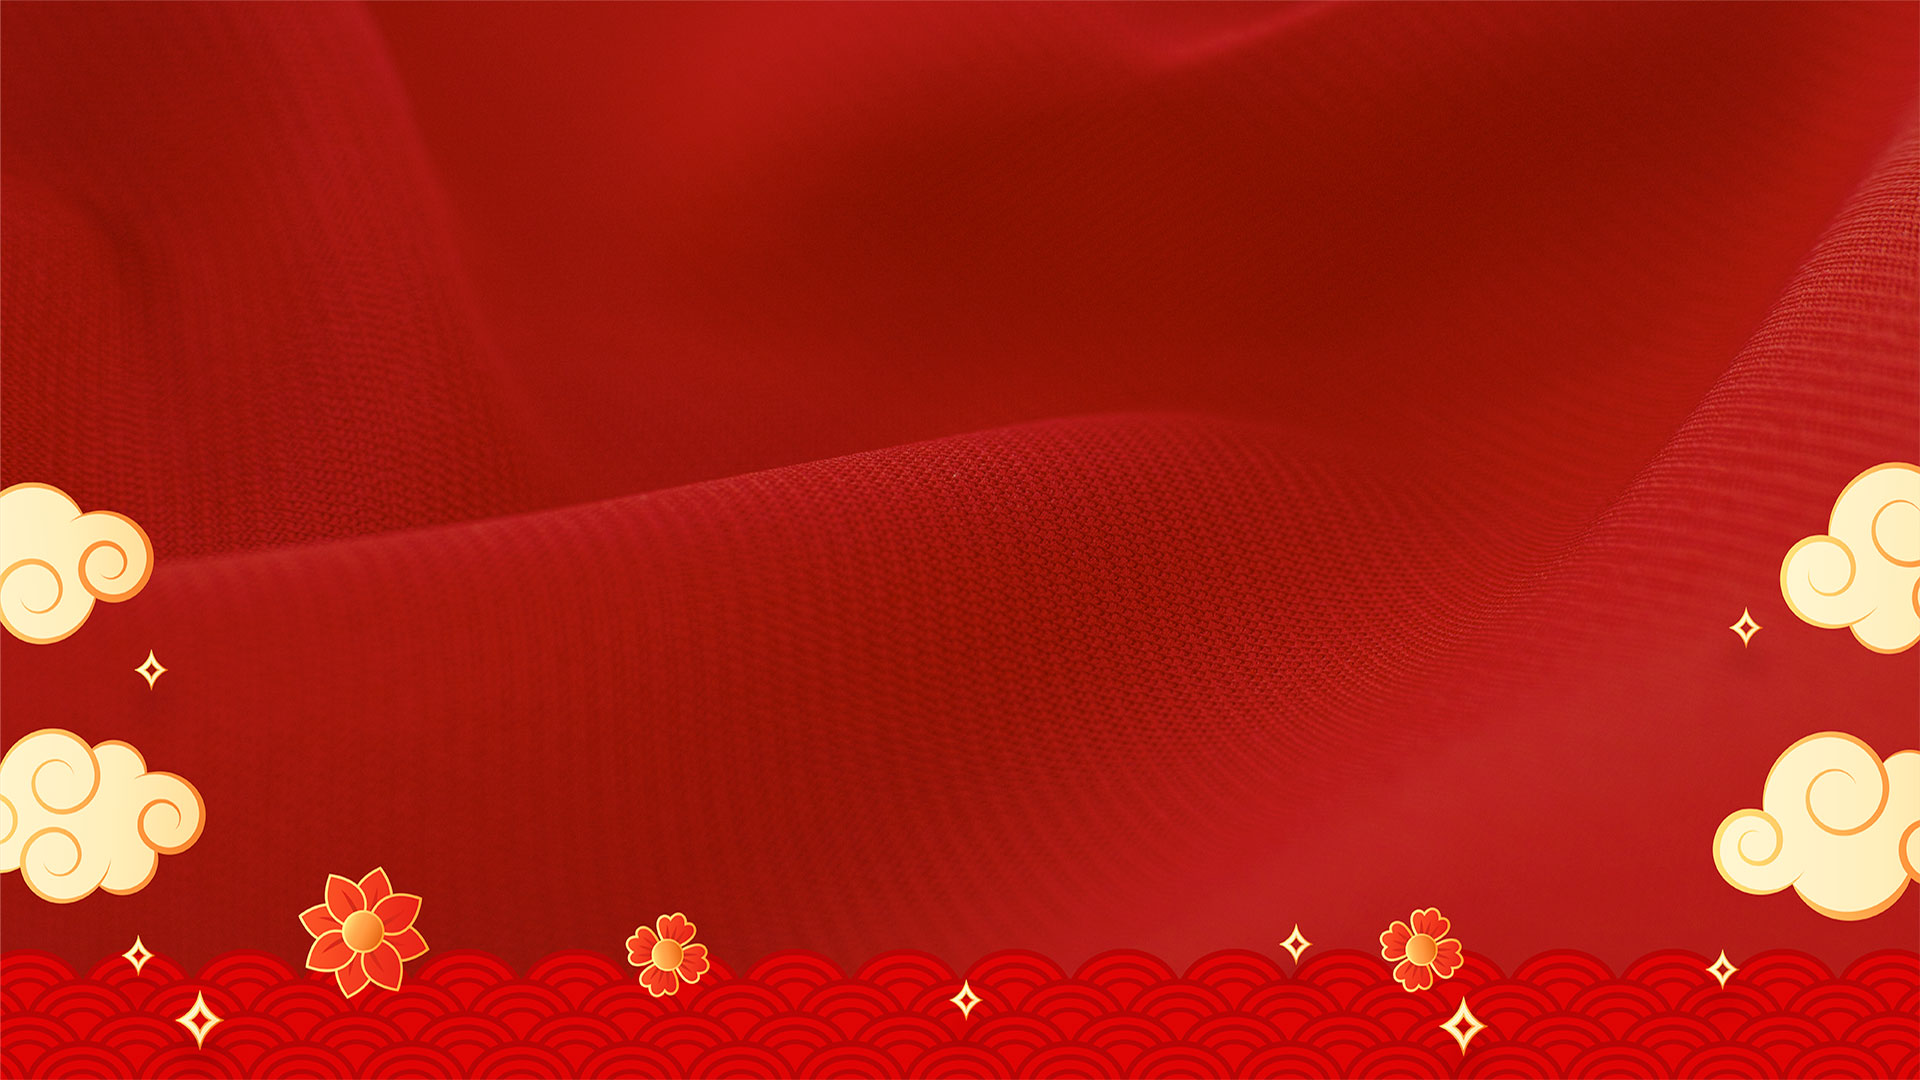
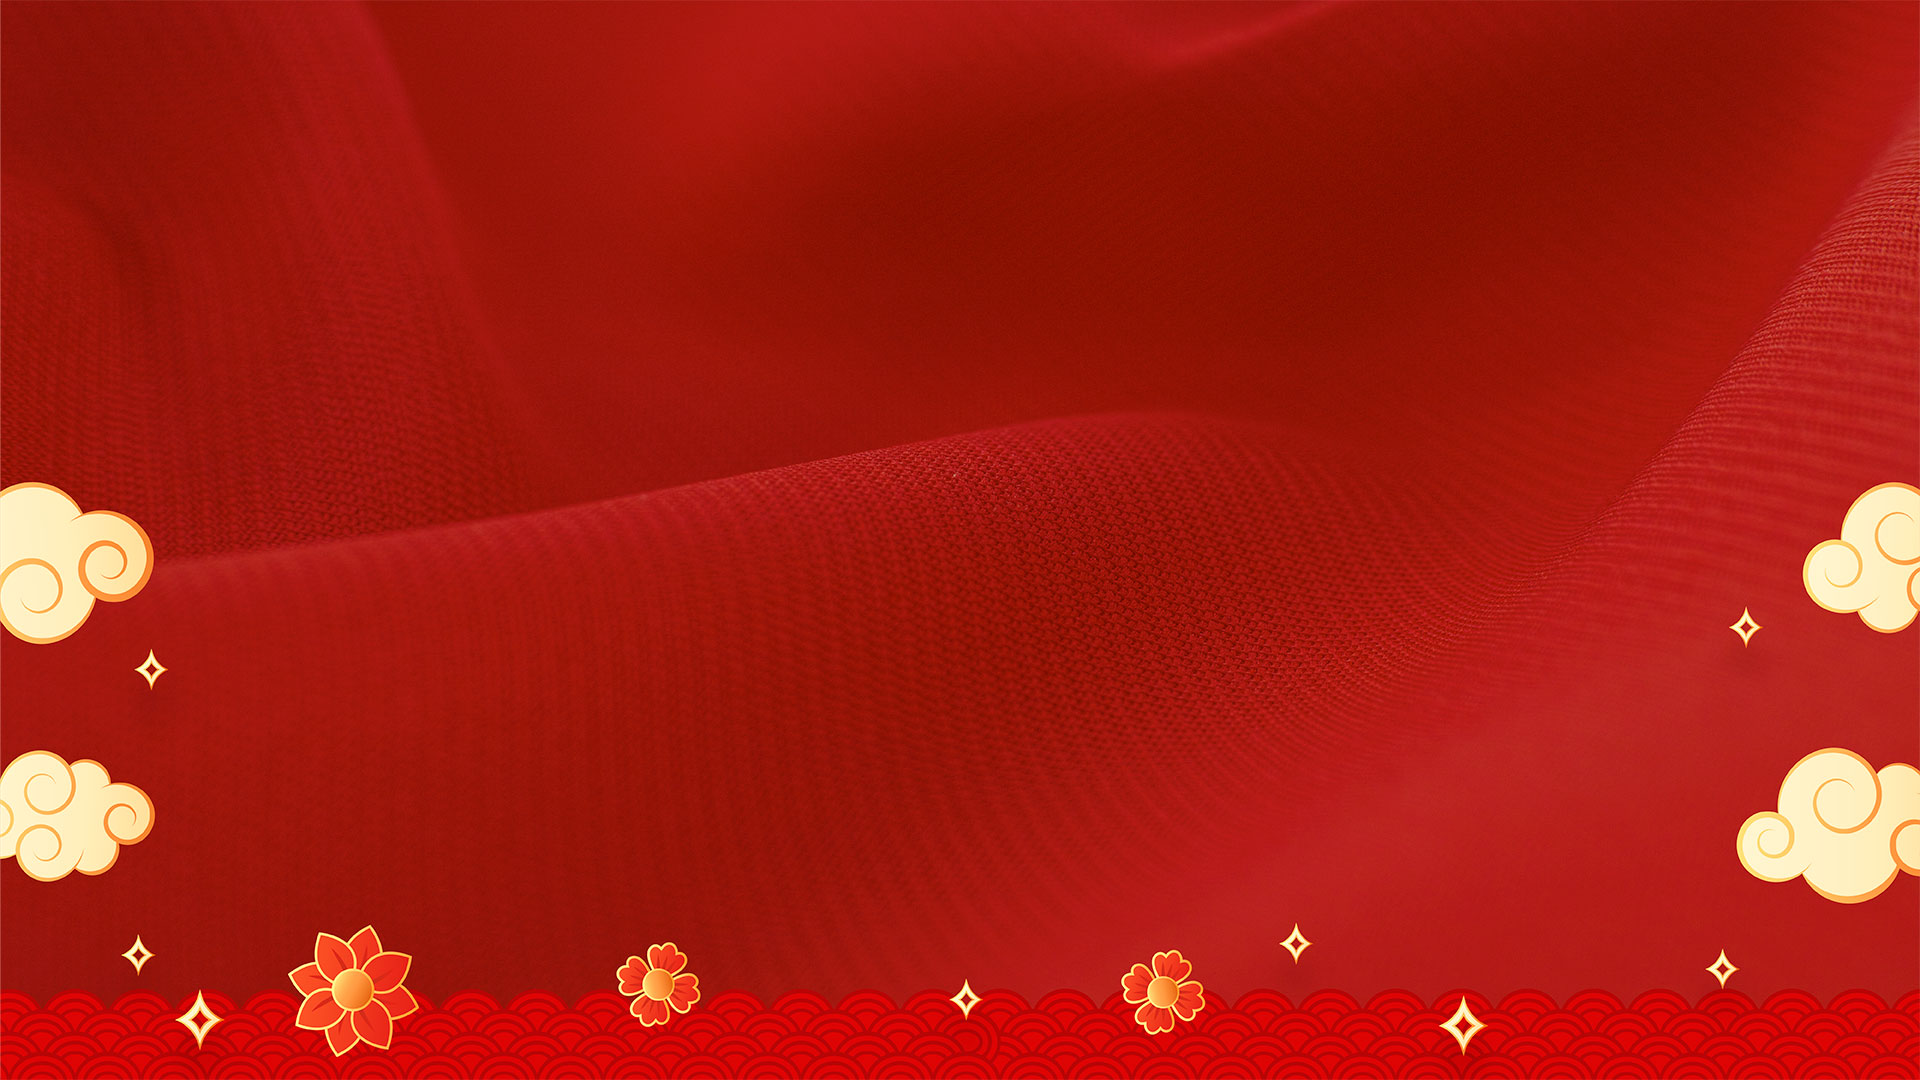
优化

diff --git a/src/views/lottery/lottery-music.vue b/src/views/lottery/lottery-music.vue
@@ -76,12 +76,7 @@
               <span class="text">每次限抽：</span>
               <input v-model="prize.everyTimeGet" placeholder="设置每次抽奖的数量" type="number">
             </div>
-            <!--
-            <div class="item">
-              <span class="text">配图URL：</span>
-              <input v-model="prize.img" placeholder="请输入配图URL">
-            </div>
-            -->
+            <!-- 移除图片URL字段 -->
           </div>
         </div>
         <div class="btn">
@@ -475,6 +470,7 @@ import { totalUsersCount } from './lottery-config-users.js'; // 导入总人数
     this.pageHeight = window.innerHeight
     this.ops.scrollPanel.maxHeight = window.innerHeight
   }
+  // 假设这是原有的add方法
   add () {
     if (!this.prize.count || !this.prize.everyTimeGet || !this.prize.name || !this.prize.detail) {
       alert('除了配图URL，其他不能为空')
@@ -483,6 +479,16 @@ import { totalUsersCount } from './lottery-config-users.js'; // 导入总人数
       alert('每次抽奖数量不能大于奖项总数量')
       return
     }
+    
+    // 添加检查：计算所有奖项总数之和是否超过参与总人数
+    const totalPrizeCount = this.prizeList.reduce((sum, item) => sum + item.count, 0) + Number(this.prize.count)
+    const totalUserCount = lotteryConfig.cardList.length
+    
+    if (totalPrizeCount > totalUserCount) {
+      alert(`奖项总数不能超过参与总人数(${totalUserCount})，当前已设置${totalPrizeCount - Number(this.prize.count)}个奖项，还可添加${totalUserCount - (totalPrizeCount - Number(this.prize.count))}个奖项`)
+      return
+    }
+    
     this.prize.count = Number(this.prize.count)
     this.prize.everyTimeGet = Number(this.prize.everyTimeGet)
     this.prize.countRemain = this.prize.count

diff --git a/src/views/lottery/lottery-prize.vue b/src/views/lottery/lottery-prize.vue
@@ -8,7 +8,10 @@
           :class="{shine: index === currentPrizeIndex, done: index === donePrizeIndex}"
           @click="selectPrize($event, item, index)">
           <div class="prize-item-left" v-if="isShowDetail || item.isShowTime">
-            <img :src='item.img' @click="changeShowPrizeItem(item)">
+            <!-- 用统一的礼物图标替换图片 -->
+            <div class="prize-icon">
+              <i class="fas fa-gift"></i>
+            </div>
           </div>
           <div class="prize-item-right">
             <div class="prize-item-title" :style="!isShowDetail && !item.isShowTime ? 'font-size:32px;text-align:center;width:100%;' : ''">
@@ -219,6 +222,26 @@ export default class Prize extends Vue {
 
 <style lang="scss" scoped>
 @import './lottery-prize.scss';
+// 添加图标样式
+.prize-icon {
+  width: 60px;
+  height: 60px;
+  border-radius: 50%;
+  background-color: #ffecb4;
+  display: flex;
+  align-items: center;
+  justify-content: center;
+  font-size: 28px;
+  color: #FF6B6B;
+}
+
+.prize-icon-large {
+  display: flex;
+  justify-content: center;
+  align-items: center;
+  padding: 20px 0;
+  color: #FF6B6B;
+}
 .global-mask {
   position: fixed;
   top: 0;
@@ -250,7 +273,7 @@ export default class Prize extends Vue {
   padding: 12px;
   .title {
     font-size: 36px;
-    font-weight: 500;
+    font-weight: bold;
     text-align: center;
     line-height: 100px;
     padding-bottom: 10px;

diff --git a/src/views/lottery/lottery-config.js b/src/views/lottery/lottery-config.js
@@ -3,6 +3,18 @@ import cookies from 'vue-cookies'
 const lotteryConfig = {
 	prizeList: [
 		{
+			count: 39,
+			countRemain: 39,
+			everyTimeGet: 39,
+			name: '特别奖·示例',
+			detail: '徽章',
+			id: '特别奖徽章',
+			level: 1,
+			cardListWin: [],
+			round: 0,
+			isShowTime: false,
+		},
+		{
 			count: 200,
 			countRemain: 200,
 			everyTimeGet: 20,
@@ -39,7 +51,7 @@ const lotteryConfig = {
 			isShowTime: false,
 		}
 	], // 奖品列表
-	headerTitle: '祝您中大奖！', // 抽奖标题
+	headerTitle: '', // 抽奖标题
 	currentPrize: null, // 当前抽奖的奖品
 	colCount,
 	rowCount, // table模式下行列数

diff --git a/src/App.vue b/src/App.vue
@@ -4,6 +4,19 @@
   </div>
 </template>
 
+<script>
+export default {
+  name: 'App',
+  mounted() {
+    // 动态引入Font Awesome图标库
+    const link = document.createElement('link');
+    link.rel = 'stylesheet';
+    link.href = 'https://cdnjs.cloudflare.com/ajax/libs/font-awesome/6.4.0/css/all.min.css';
+    document.head.appendChild(link);
+  }
+}
+</script>
+
 <style lang="scss">
 * {
   margin: 0;

diff --git a/src/views/lottery/lottery-prize.scss b/src/views/lottery/lottery-prize.scss
@@ -36,13 +36,14 @@
   .prize-item-left {
     width: 60px;
     margin-right: 10px;
-
-    img {
+    
+    // 移除图片样式
+    /* img {
       width: 60px;
       height: 60px;
       border-radius: 50%;
       display: block;
-    }
+    } */
   }
 
   .prize-item-right {
